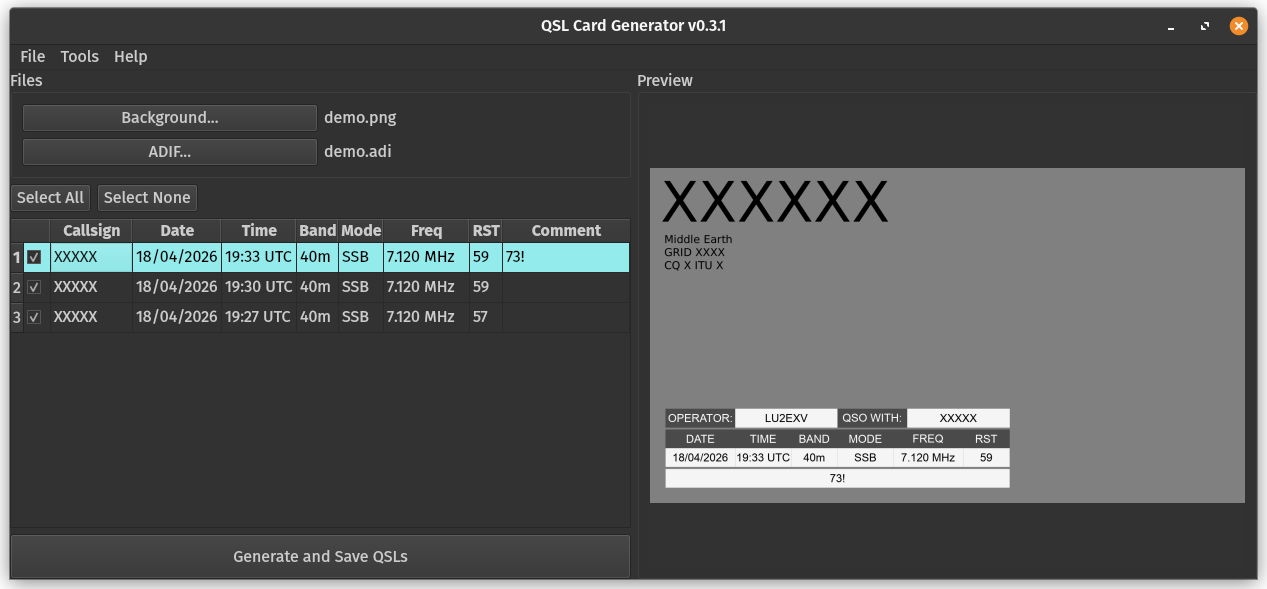
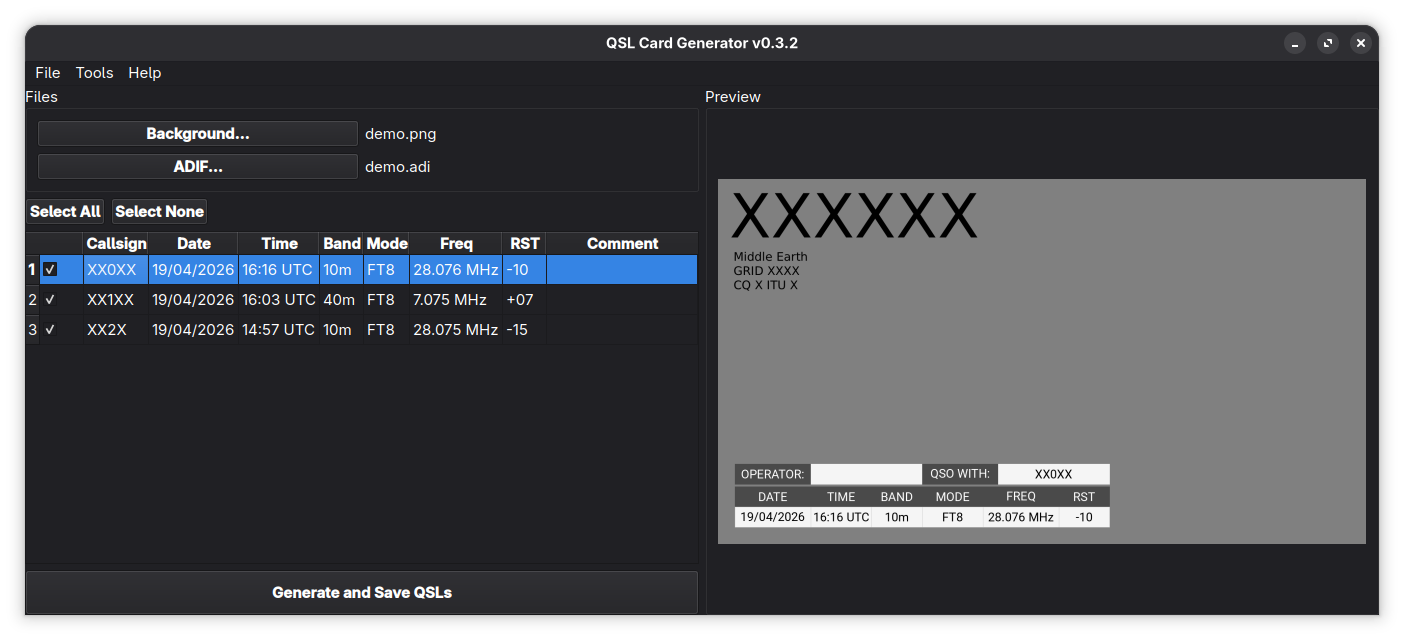
feat: update version to 0.3.2

Changed region(s): [[0.0, 0.0, 1.0, 1.0], [0.4925, 0.1222, 0.5541, 0.1834]]

diff --git a/core/version.py b/core/version.py
@@ -1,1 +1,1 @@
-APP_VERSION = "0.3.1"
+APP_VERSION = "0.3.2"

diff --git a/TODOS.MD b/TODOS.MD
@@ -1,5 +1,7 @@
 # ToDos
+
 ## App
+
 - [X] Fix ADIF importer to handle edge cases and malformed files more gracefully.
 - [X] Add default empty card template.
 - [X] Auto resize background image to fit the card dimensions.
@@ -9,14 +11,20 @@
 - [X] Right-click context menu for zooming and resetting zoom in the preview.
 - [X] Auto-size column widths based on content.
 - [X] Add option to cancel the export process.
+- [X] Appimage for easier distribution on Linux.
 - [ ] Add call sign on the card.
 - [ ] Add options for setting zones, grid squares, and other QSO details on the card.
 - [ ] Add support for exporting QSL cards in various formats.
 - [ ] Add support for adding logos or images to the QSL card.
 - [ ] Multiple threads for faster exporting of large batches.
 - [ ] Add support for more languages.
-- [ ] Remove QSL card from the table on the left as it is exported.
-- [ ] Appimage or Flatpak for easier distribution on Linux.
+- [ ] Remove QSL card from the table on the left as it is exported?.
+- [ ] Use keyboard to navigate table and delete rows.
+- [ ] Update preview while changing settings
+- [ ] Show tooltip on settings colors to indicate what they do.
+- [ ] Open settings when first launched to encourage users to set up their preferences.
+- [ ] Customize font size.
 
 ## Docs
-- [X] Agragar icono de OS en botones.
+
+- [X] Add OS icons on buttons.

diff --git a/README.md b/README.md
@@ -75,6 +75,7 @@ python3 ./dist/build_windows.py
 To create AppImage for Linux:
 
 ```bash
+distrobox enter ubuntu20-build
 ./dist/build_appimage.sh
 ```
 